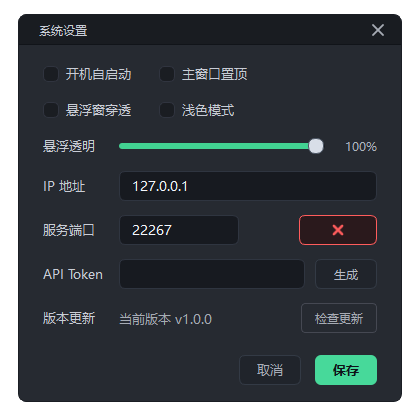
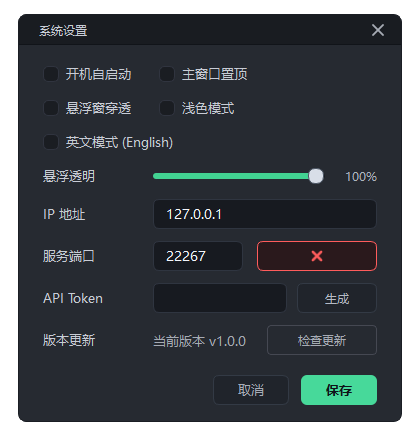
docs: Update English README to use newly captured English screenshots and Chinese README to use Chinese screenshots

diff --git a/capture_all.py b/capture_all.py
@@ -1,0 +1,99 @@
+import sys
+import os
+from PySide6.QtWidgets import QApplication
+from PySide6.QtCore import QTimer
+from ui.main_window import AlasConsole
+from ui.settings_window import SettingsWindow
+from ui.i18n import set_language
+
+def main():
+    app = QApplication(sys.argv)
+    app.setQuitOnLastWindowClosed(False)
+    
+    with open("ui/style.qss", "r", encoding="utf-8") as f:
+        app.setStyleSheet(f.read())
+        
+    steps = []
+    
+    def run_next_step():
+        if not steps:
+            app.quit()
+            return
+        
+        step_func = steps.pop(0)
+        step_func()
+        
+    # Step 1: Capture Chinese Main
+    def step_1():
+        print("Capturing Chinese main window...")
+        set_language("zh")
+        win = AlasConsole()
+        win.show()
+        
+        def do_capture():
+            win.grab().save("ui_preview.png")
+            print("Captured ui_preview.png")
+            win.close()
+            QTimer.singleShot(100, run_next_step)
+            
+        QTimer.singleShot(500, do_capture)
+        
+    # Step 2: Capture Chinese Settings
+    def step_2():
+        print("Capturing Chinese settings window...")
+        set_language("zh")
+        win = AlasConsole()
+        win.show()
+        dialog = SettingsWindow(win)
+        dialog.show()
+        dialog._on_test_result(False, "连接失败：端口冲突")
+        
+        def do_capture():
+            dialog.grab().save("settings_preview.png")
+            print("Captured settings_preview.png")
+            dialog.close()
+            win.close()
+            QTimer.singleShot(100, run_next_step)
+            
+        QTimer.singleShot(500, do_capture)
+
+    # Step 3: Capture English Main
+    def step_3():
+        print("Capturing English main window...")
+        set_language("en")
+        win = AlasConsole()
+        win.show()
+        
+        def do_capture():
+            win.grab().save("ui_preview_en.png")
+            print("Captured ui_preview_en.png")
+            win.close()
+            QTimer.singleShot(100, run_next_step)
+            
+        QTimer.singleShot(500, do_capture)
+
+    # Step 4: Capture English Settings
+    def step_4():
+        print("Capturing English settings window...")
+        set_language("en")
+        win = AlasConsole()
+        win.show()
+        dialog = SettingsWindow(win)
+        dialog.show()
+        dialog._on_test_result(False, "Connection failed: Port conflict")
+        
+        def do_capture():
+            dialog.grab().save("settings_preview_en.png")
+            print("Captured settings_preview_en.png")
+            dialog.close()
+            win.close()
+            QTimer.singleShot(100, run_next_step)
+            
+        QTimer.singleShot(500, do_capture)
+
+    steps.extend([step_1, step_2, step_3, step_4])
+    QTimer.singleShot(100, run_next_step)
+    sys.exit(app.exec())
+
+if __name__ == "__main__":
+    main()

diff --git a/README.md b/README.md
@@ -18,7 +18,7 @@
 **Alas-Gyre** is a sleek, premium, and secure desktop companion designed exclusively for [AzurLaneAutoScript (ALAS)](https://github.com/LmeSzinc/AzurLaneAutoScript). Built with **PySide6**, it offers multi-instance status monitoring and absolute background control in a beautiful Windows 11 Fluent-inspired aesthetic, fully supporting custom dark and light themes.
 
 <div align="center">
-  <img src="ui_preview.png?v=3" alt="Alas-Gyre UI Preview" width="314"/>
+  <img src="ui_preview_en.png?v=3" alt="Alas-Gyre UI Preview" width="314"/>
   <p><em>Main Control Dashboard (Dark Mode)</em></p>
 </div>
 
@@ -77,7 +77,7 @@ If you want to run the project using raw Python or make custom modifications:
 Alas-Gyre communicates with the ALAS instance over HTTP using a secure customized API token.
 
 <div align="center">
-  <img src="settings_preview.png?v=3" alt="Alas-Gyre Settings Preview" width="420"/>
+  <img src="settings_preview_en.png?v=3" alt="Alas-Gyre Settings Preview" width="420"/>
   <p><em>Secure Connection Settings & Client Customization</em></p>
 </div>
 
